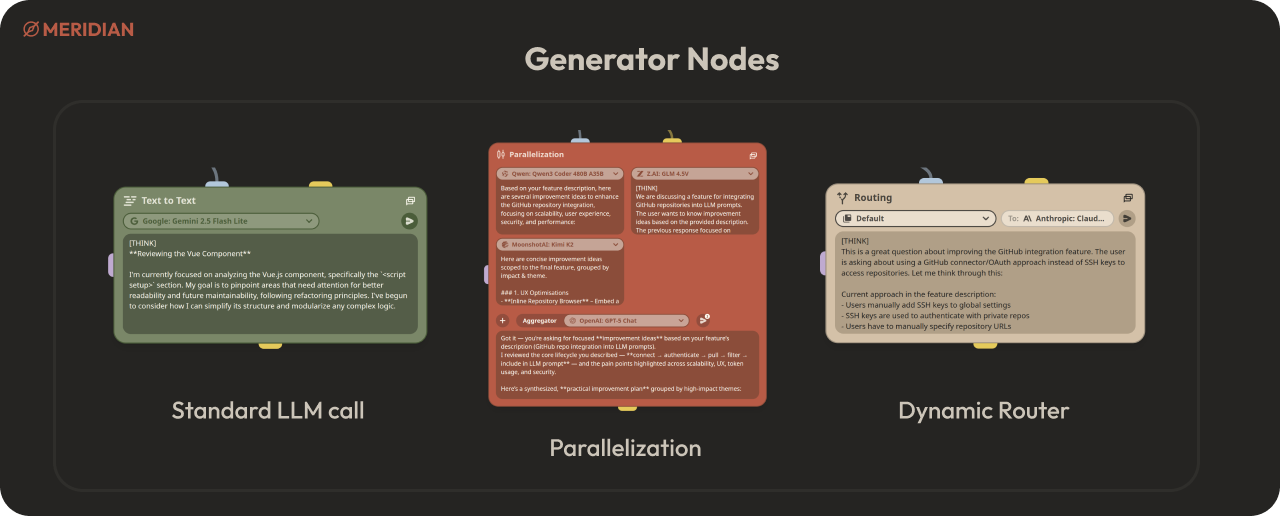
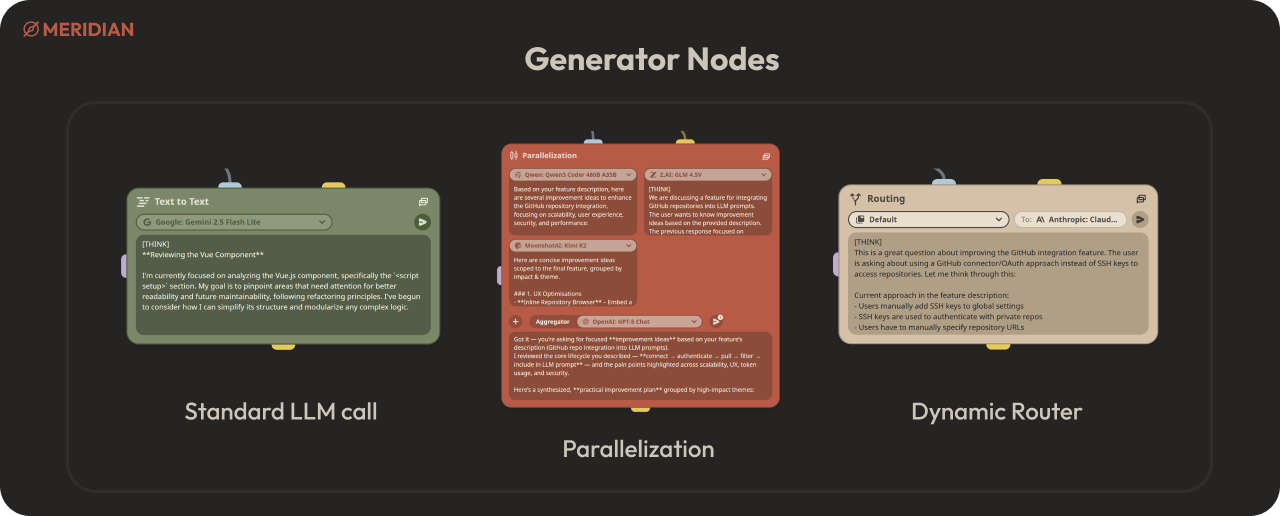
docs: update Features.md for improved clarity and organization; replace images for generator nodes and rich content formatting

diff --git a/docs/Features.md b/docs/Features.md
@@ -1,117 +1,175 @@
-# Meridian - Features
+# Meridian - Detailed Feature Overview
+
+This document provides a detailed breakdown of the features available in Meridian, from its core graph-based architecture to its rich user interface and powerful customization options.
 
 ## Table of Contents
 
-*   🌳 [Graph-Based AI Engine & Chat Branching](#-graph-based-ai-engine--chat-branching)
-*   ⚡ [Parallel Query Processing](#-parallel-query-processing)
-*   🔄 [Model Agnostic](#-model-agnostic)
-*   🔒 [Oauth & UserPass](#-oauth--userpass)
-*   📎 [Attachment Support](#-attachment-support)
-*   🎨 [Syntax Highlighting](#-syntax-highlighting)
-*   🧮 [LaTeX Rendering](#-latex-rendering)
-*   ⚙ [Highly Customizable](#%EF%B8%8F-highly-customizable)
-*   💰 [Cost display](#-cost-display)
+- [Core Architecture](#core-architecture)
+  - [Graph-Based Engine](#graph-based-engine)
+  - [Visual Canvas](#visual-canvas)
+  - [Integrated Chat Interface](#integrated-chat-interface)
+- [Node System & Workflow Creation](#node-system--workflow-creation)
+  - [Input Nodes](#input-nodes)
+  - [Generator Nodes](#generator-nodes)
+- [Execution & Orchestration](#execution--orchestration)
+  - [Execution Control](#execution-control)
+  - [Real-time Execution Plan](#real-time-execution-plan)
+- [Model Management](#model-management)
+  - [OpenRouter Integration](#openrouter-integration)
+  - [Advanced Model Selector](#advanced-model-selector)
+- [Rich Content & Tooling](#rich-content--tooling)
+  - [Markdown, LaTeX, and Syntax Highlighting](#markdown-latex-and-syntax-highlighting)
+  - [AI-Powered Diagram Generation](#ai-powered-diagram-generation)
+  - [GitHub Repository Integration](#github-repository-integration)
+- [User & Session Management](#user--session-management)
+  - [Secure Authentication](#secure-authentication)
+- [System & Customization](#system--customization)
+  - [Comprehensive Settings](#comprehensive-settings)
+  - [Cost and Token Usage Tracking](#cost-and-token-usage-tracking)
 
 ---
 
-## 🌳 Graph-Based AI Engine & Chat Branching
+## Core Architecture
 
-Meridian is built around the Neo4j graph database, which allows it to represent an AI chat as a graph structure.
+### Graph-Based Engine
 
-In the following image, you can see how the graph view displays the relationships between different nodes in a conversation, making it easy to visualize and navigate through complex discussions.
+Meridian is built on a robust hybrid data model. It uses **PostgreSQL** for storing structured data like user information, graph metadata, and settings, while leveraging a **Neo4j** graph database for managing the complex relationships between conversational nodes. This allows for efficient traversal and querying of conversation history, enabling advanced features like branching and sophisticated context-gathering.
 
-Here the user has asked the starting question "what is LaTeX ?", the answer is provided by the LLM in the following `Text to Text`
-node, but then the users had 3 different follow-up questions. This is how Meridian can handle branching conversations, allowing users to explore different paths and topics
-while still being easy to navigate. Therefore 3 different `Text to Text` nodes are created, each with its own follow-up question and answer.
+### Visual Canvas
+
+The primary interface for building and managing AI workflows is a dynamic, interactive canvas. Users can drag and drop different nodes, connect them to define data flow, and arrange them to visualize the entire workflow. This visual approach makes it intuitive to design and debug complex, non-linear interactions that would be difficult to represent in a traditional, linear chat format.
 
 <p align="center">
     <img src="imgs/features-graph-view.png" alt="features-graph-view"/>
 </p>
 
-## ⚡ Parallel Query Processing
+### Integrated Chat Interface
 
-Meridian supports parallel query processing, which means that user prompts can be dispatched to multiple LLMs simultaneously
-and then intelligently combined by a final LLM to deliver a unified and comprehensive answer.
-
-This feature is inspired from this [Anthropic Article](https://www.anthropic.com/engineering/building-effective-agents) and is illustrated in the following schema :
+Alongside the graph view, Meridian offers a polished and feature-rich chat interface. This interface acts as a user-friendly "view" of the graph's execution. As you interact with the chat, the underlying graph is built and updated in real-time. You can seamlessly switch between the chat and graph views, and even initiate or continue a conversation from any node in the graph, naturally creating complex **branching conversations**.
 
 <p align="center">
-    <img src="imgs/features-parallelization-workflow-schema.png" alt="header" width="50%" />
+    <img src="imgs/main-chat-view.png" alt="main-chat-view"/>
 </p>
 
-To implement this, Meridian uses a new node. Instead of a single `Text to Text` node, we have a `Parallelization` node.
+---
 
-Here is how it looks like in the graph view with 4 models being used in parallel :
+## Node System & Workflow Creation
+
+Meridian's power comes from its modular node system, which is divided into two main categories: Input and Generator nodes.
+
+### Input Nodes
+
+Input nodes provide the initial data or context for the generator nodes.
+
+-   **Prompt**: A simple text input node for writing prompts.
+-   **Attachment**: Allows uploading local files (images, PDFs) to be included as context.
+-   **GitHub**: A powerful node that integrates with a user's GitHub account to select entire repositories and specific files to be used as context for the AI.
 
 <p align="center">
-    <img src="imgs/features-parallelization-graph-view.png" alt="features-parallelization-graph-view" style="border-radius:6px;" />
+    <img src="imgs/key-features-input-nodes.png" alt="key-features-input-nodes"/>
 </p>
 
-We can switch to the chat view to see how the conversation looks like with the parallelization node :
+### Generator Nodes
+
+Generator nodes are the processing units of the graph that perform actions, typically involving LLM calls.
+
+-   **Text-to-Text**: A standard node for making a call to a Large Language Model.
+-   **Parallelization**: Executes a single prompt against multiple LLMs simultaneously. It then uses a final "aggregator" model to synthesize the parallel responses into a single, comprehensive answer. This is ideal for tasks requiring diverse perspectives or robust fact-checking.
+-   **Routing**: Enables conditional logic within the graph. This node can dynamically select the next node or model to use based on the content of the input, allowing for the creation of sophisticated, stateful agents.
 
 <p align="center">
-  <img alt="features-parallelization-chat-view" src="imgs/features-parallelization-chat-view.png" width="48%">
-&nbsp; &nbsp; &nbsp; &nbsp;
-  <img alt="features-parallelization-chat-view-expanded" src="imgs/features-parallelization-chat-view-expanded.png" width="48%">
+    <img src="imgs/key-features-generator-nodes.png" alt="key-features-generator-nodes"/>
 </p>
 
-## 🔄 Model Agnostic
+---
 
-Meridian is powered by [OpenRouter](https://openrouter.ai/), which allows it to be model agnostic.
-This means that you can easily switch between different AI models and use the one that best fits your needs.
+## Execution & Orchestration
 
-As OpenRouter supports a wide range of models, we developed an advanced, configurable, and user-friendly dropdown
-menu to select the model you want to use for each node.
+### Execution Control
+
+Meridian provides fine-grained control over workflow execution. From the run toolbar on any selected node, you can choose to:
+-   **Run Upstream**: Execute all parent nodes that lead to the selected node.
+-   **Run Downstream**: Execute the selected node and all of its children.
+-   **Run Selected**: Execute only the currently selected node(s).
+-   **Run All**: Execute the entire graph from its starting points.
+
+### Real-time Execution Plan
+
+When a workflow is executed, a visual execution plan appears, showing the sequence of node processing in real-time. It highlights which nodes are currently running, which are queued, and which have completed, providing a clear, transparent view of the orchestration engine at work.
+
+---
+
+## Model Management
+
+### OpenRouter Integration
+
+Meridian is powered by **OpenRouter.ai**, which acts as a gateway to a vast array of proprietary and open-source models from providers like OpenAI, Anthropic, Google, Mistral, and more. This makes the platform model-agnostic and future-proof.
+
+### Advanced Model Selector
+
+To manage the wide variety of available models, Meridian includes an advanced model selector with features designed for power users:
+-   **Pinning**: Keep your favorite or most-used models at the top of the list for quick access.
+-   **Filtering**: Hide free or paid models to narrow down the selection.
+-   **Sorting**: Sort models by name or release date.
+-   **Detailed Info**: View pricing and context window length for each model directly in the selector.
 
 <p align="center">
     <img src="imgs/features-model-selector.png" alt="features-model-selector" width="48%" />
 </p>
 
-With this dropdown, you can pin your favorite models to the top, search for models, see model details, hide free or paid models and sort them by name or release date.
+---
 
-## 🔒 Oauth & UserPass
+## Rich Content & Tooling
 
-Meridian supports both Oauth and UserPass authentication methods, allowing you to choose the one that best fits your needs.
+### Markdown, LaTeX, and Syntax Highlighting
 
-Oauth can be disabled in the configuration file, and UserPass is enabled by default.
-UserPass registration is only available in the configuration file.
-
-## 📎 Attachment Support
-
-Meridian allows users to upload attachments, enhancing the context and richness of conversations.
-Attachments can be images or pdf files, and they are displayed in the chat view.
-More document types are planned to be supported in the future.
-
-## 🎨 Syntax Highlighting
-
-Meridian supports syntax highlighting for code snippets, making it easier to read and understand technical content.
-
-Powered by [Shiki](https://github.com/shikijs/shiki) and a dynamic language grammars bundle fetching system, Meridian
-can highlight code snippets for **220+ languages** without increasing the bundle size.
-
-## 🧮 LaTeX Rendering
-
-Meridian supports LaTeX rendering, allowing for clear communication of complex mathematical expressions and ideas.
-
-This is powered by [KaTeX](https://github.com/KaTeX/KaTeX), which is a fast and lightweight LaTeX rendering library.
+The chat interface and node editors support a rich set of formatting options:
+-   **Markdown**: Full support for text formatting, lists, links, and more.
+-   **LaTeX**: Render complex mathematical and scientific notation beautifully using KaTeX.
+-   **Syntax Highlighting**: Code blocks are highlighted for over 220 languages, powered by Shiki, with language grammars fetched dynamically to keep the application lightweight.
 
 <p align="center">
-    <img src="imgs/features-latex-rendering.png" alt="features-latex-rendering" width="48%" />
+    <img src="imgs/key-features-rich-content-formatting.png" alt="key-features-rich-content-formatting"/>
 </p>
 
-## ⚙ Highly Customizable
+### AI-Powered Diagram Generation
 
-Meridian is highly configurable, allowing you to tailor the system to your specific needs and preferences.
+Meridian can generate and render **Mermaid.js** diagrams directly in the chat. Users can ask the AI to create flowcharts, sequence diagrams, Gantt charts, and more to visualize data and processes. The generated diagrams can be viewed in fullscreen, panned, zoomed, and exported as PNGs or raw Mermaid code.
 
-Here is an example of a settings page where you can configure various aspects of the application :
+### GitHub Repository Integration
+
+A standout feature is the deep integration with GitHub. Users can connect their GitHub account, browse their repositories, and select specific files or entire directories to be injected as context into the AI's prompt. This is invaluable for tasks like code review, documentation generation, and technical Q&A.
+
+---
+
+## User & Session Management
+
+### Secure Authentication
+
+Meridian ensures secure access with a robust authentication system:
+-   **Multiple Providers**: Supports standard username/password login as well as OAuth 2.0 for GitHub and Google.
+-   **JWT & Refresh Token Rotation**: Employs a secure session management strategy using short-lived JSON Web Tokens (JWTs) and long-lived, rotating refresh tokens to enhance security and prevent token theft.
+
+---
+
+## System & Customization
+
+### Comprehensive Settings
+
+A dedicated settings panel allows users to configure nearly every aspect of the application, including:
+-   **General**: Default behaviors like auto-opening the chat view.
+-   **Models**: Global model parameters (temperature, max tokens, etc.) and the default system prompt.
+-   **Account**: Manage API keys and passwords.
+-   **Appearance**: Switch between light, dark, and OLED themes, and set a custom accent color.
+-   **Blocks**: Customize the "Context Wheel," a radial menu for quickly creating connected nodes.
 
 <p align="center">
     <img src="imgs/features-configurable.png" alt="features-configurable" width="48%" />
 </p>
 
-## 💰 Cost display
+### Cost and Token Usage Tracking
 
-Meridian displays the cost of each node in the chat view, allowing you to keep track of your usage and costs.
+To provide full transparency, Meridian tracks and displays the cost and token usage for every model call. This information is available in the footer of each assistant message in the chat, helping users monitor their spending and API usage.
 
 <p align="center">
     <img src="imgs/features-cost-display.png" alt="features-cost-display" width="48%" />
